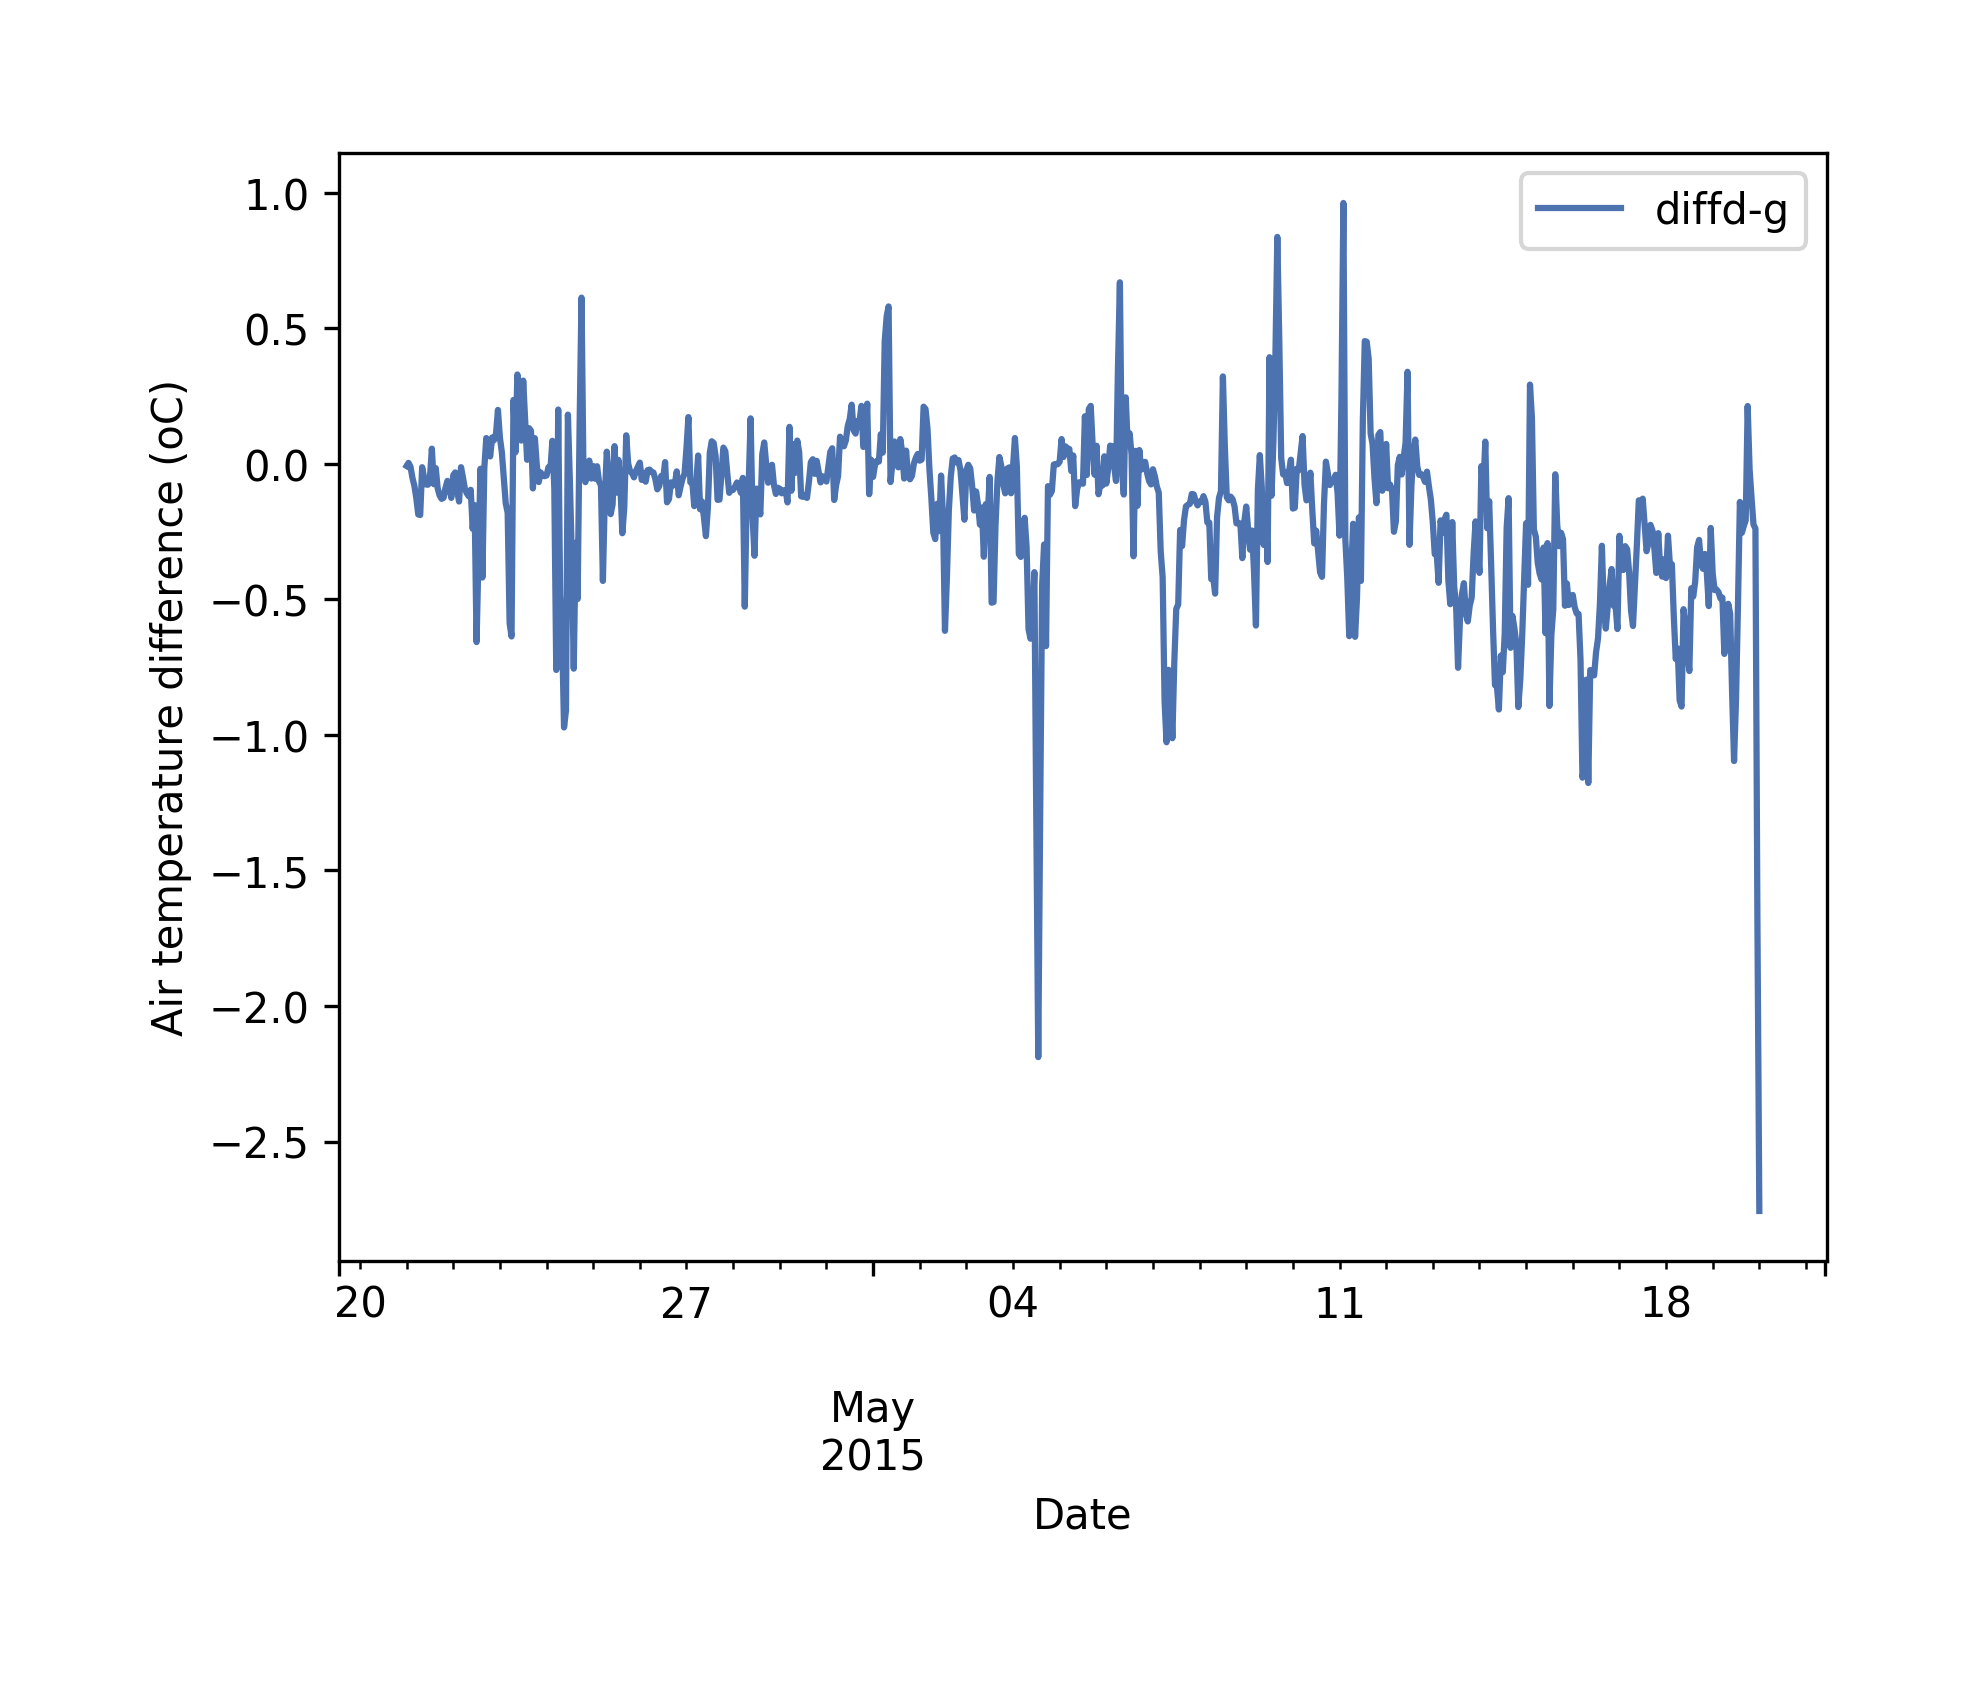
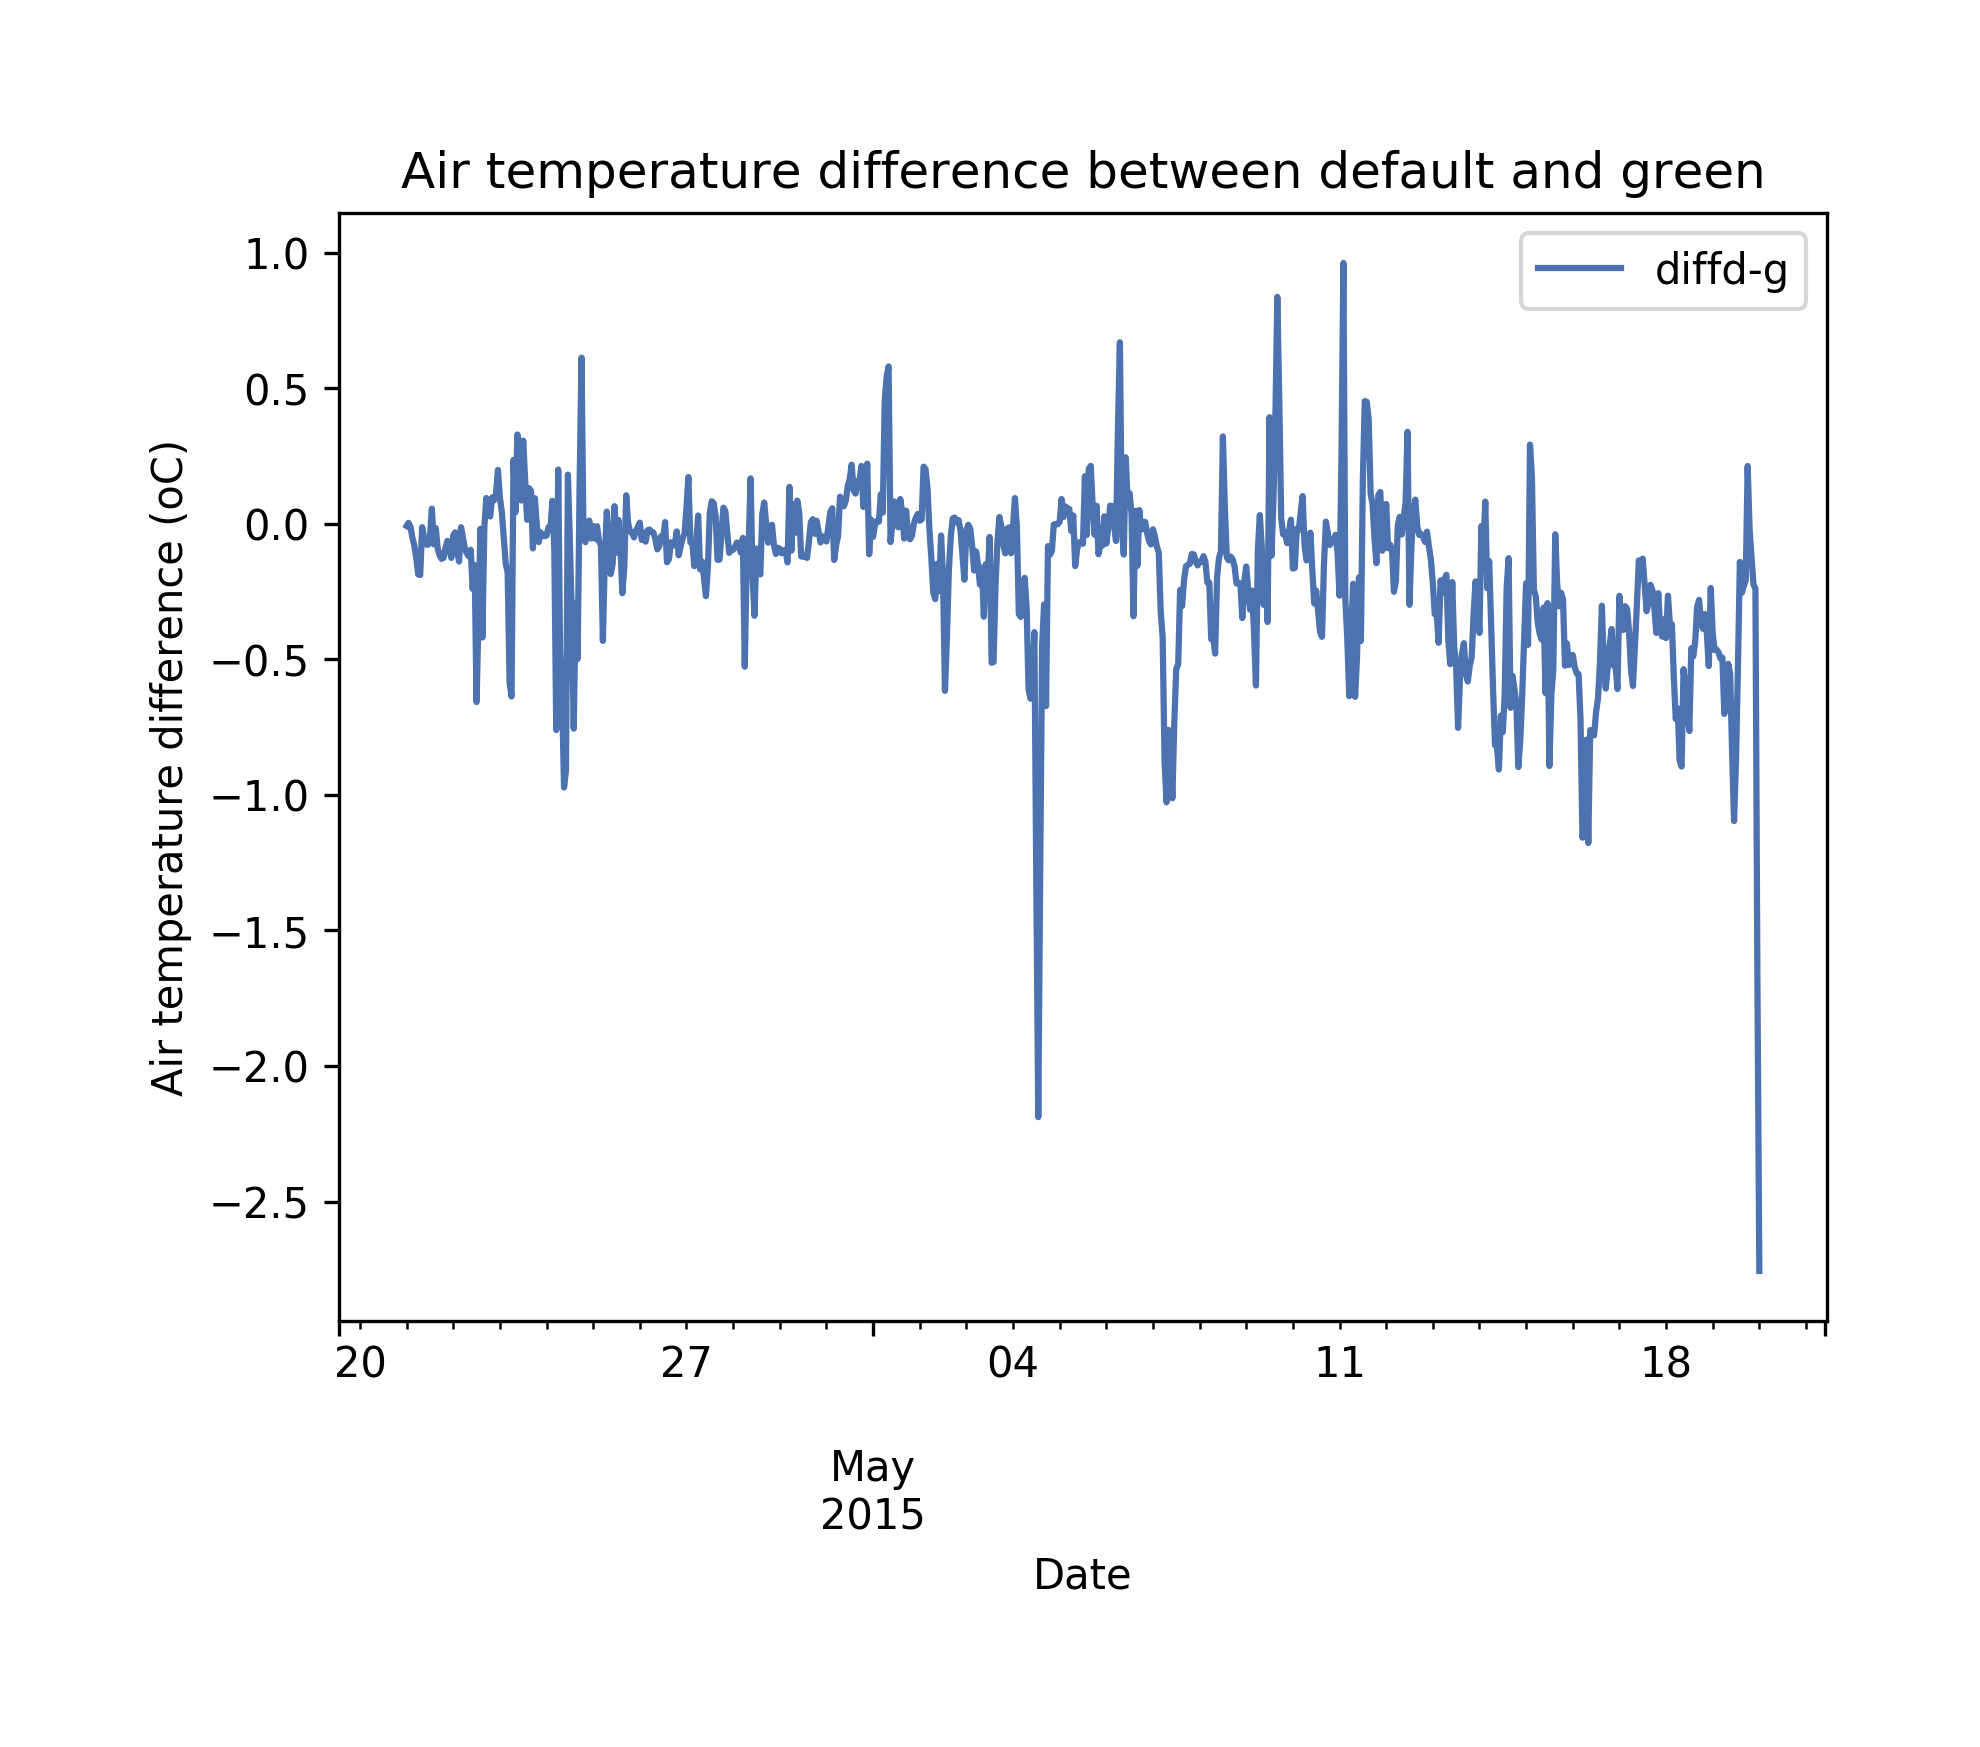
Set difference plot titles

diff --git a/pyallTS2.py b/pyallTS2.py
@@ -83,26 +83,31 @@ ax1=df1[['diffd-g']].plot()
 
 ax1.set_xlabel("Date")
 ax1.set_ylabel("Air temperature difference (oC)")
+ax1.set_title("Air temperature difference between default and green")
 plt.savefig('Toolik_diff1_21_Apr_15.png', dpi=300, bbox_inches='tight', pad_inches=0.5)
 
 ax2=df1[['diffd-h']].plot()
 ax2.set_xlabel("Date")
-ax2.set_ylabel("Surface Sensible Heat (W/M^2)")
+ax2.set_ylabel("Surface Sensible Heat ($W/m^2$)")
+ax2.set_title("Surface Sensible Heat difference between default and green")
 plt.savefig('Toolik_diff2_21_Apr_15_diff.png', dpi=300, bbox_inches='tight', pad_inches=0.5)
 
 ax3=df1[['diffd-lh']].plot()
 ax3.set_xlabel("Date")
-ax3.set_ylabel("Surface Latent Heat Flux (W/M^2)")
+ax3.set_ylabel("Surface Latent Heat Flux ($W/m^2$)")
+ax3.set_title("Surface Latent Heat Flux difference between default and green")
 plt.savefig('Toolik_diff3_21_Apr_15_diff.png', dpi=300, bbox_inches='tight', pad_inches=0.5)
 
 ax4=df1[['diffd-sh']].plot()
 ax4.set_xlabel("Date")
-ax4.set_ylabel("Soil Heat Flux")
+ax4.set_ylabel("Soil Heat Flux ($W/m^2$)")
+ax4.set_title("Soil Heat Flux difference between default and green")
 plt.savefig('Toolik_diff4_21_Apr_15_diff.png', dpi=300, bbox_inches='tight', pad_inches=0.5)
 
 ax5=df1[['diffd-st']].plot()
 ax5.set_xlabel("Date")
-ax5.set_ylabel("Soil Top Layer Temp")
+ax5.set_ylabel("Soil Top Layer Temp ($^oC$)")
+ax5.set_title("Soil Top Layer Temperature difference between default and green")
 plt.savefig('Toolik_diff5_21_Apr_15_diff.png', dpi=300, bbox_inches='tight', pad_inches=0.5)
 
 # ax1=df[['hfx','lh','grdflx']].plot()
